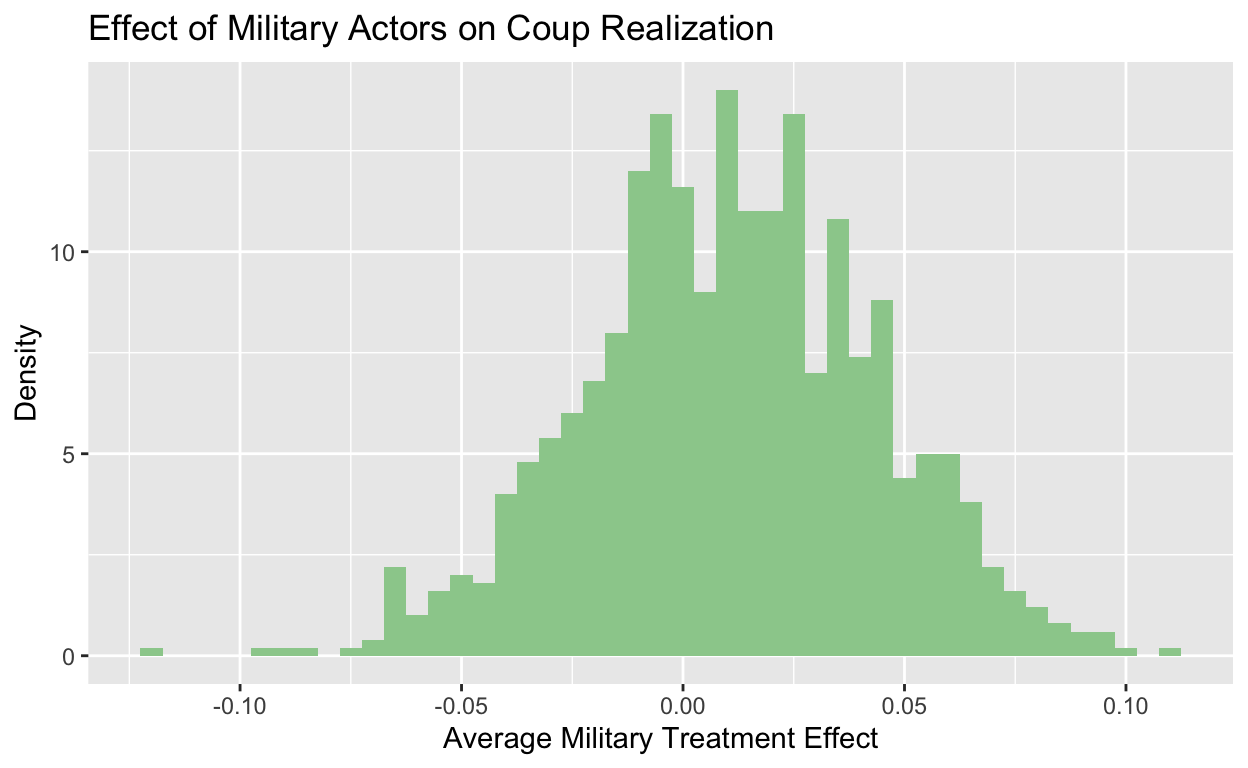
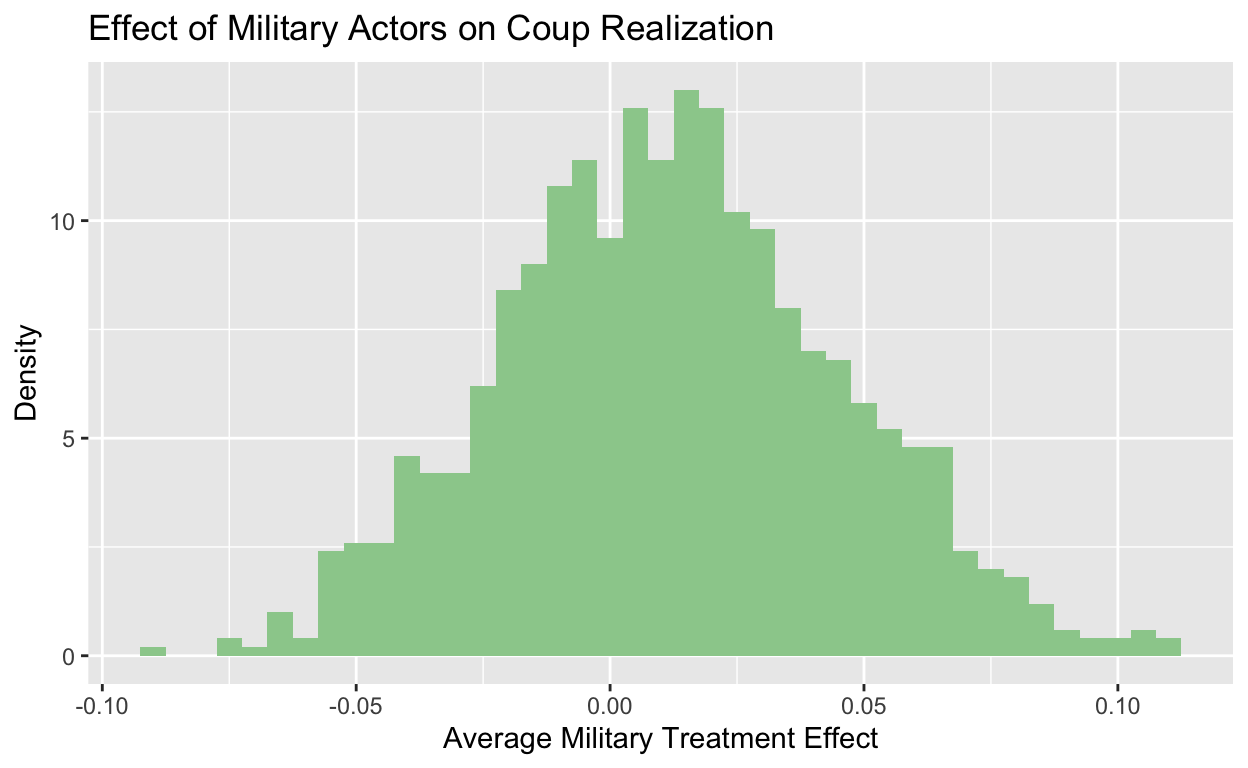
Fourth Try!

diff --git a/index.html b/index.html
@@ -1596,18 +1596,18 @@ code span.wa { color: #5e5e5e; font-style: italic; } /* Warning */
 </div>
 <pre><code># A tibble: 1,000 × 4
 # Groups:   replicate [1,000]
-   replicate   `0`   `1`       ATE
-       &lt;int&gt; &lt;dbl&gt; &lt;dbl&gt;     &lt;dbl&gt;
- 1         1 0.427 0.461  0.0343  
- 2         2 0.455 0.463  0.00747 
- 3         3 0.444 0.485  0.0409  
- 4         4 0.424 0.491  0.0667  
- 5         5 0.481 0.481  0.000861
- 6         6 0.445 0.486  0.0411  
- 7         7 0.434 0.414 -0.0206  
- 8         8 0.417 0.471  0.0532  
- 9         9 0.462 0.456 -0.00547 
-10        10 0.464 0.473  0.00904 
+   replicate   `0`   `1`     ATE
+       &lt;int&gt; &lt;dbl&gt; &lt;dbl&gt;   &lt;dbl&gt;
+ 1         1 0.501 0.489 -0.0126
+ 2         2 0.473 0.453 -0.0206
+ 3         3 0.416 0.445  0.0284
+ 4         4 0.380 0.427  0.0477
+ 5         5 0.435 0.457  0.0219
+ 6         6 0.422 0.440  0.0181
+ 7         7 0.439 0.466  0.0271
+ 8         8 0.456 0.439 -0.0171
+ 9         9 0.433 0.463  0.0305
+10        10 0.475 0.443 -0.0324
 # ℹ 990 more rows</code></pre>
 <div class="sourceCode">
 <pre class="sourceCode r"><code class="sourceCode r"><span><span class='co'>#Creating the confidence intervals</span></span>
@@ -1627,8 +1627,8 @@ code span.wa { color: #5e5e5e; font-style: italic; } /* Warning */
 </thead>
 <tbody>
 <tr class="odd">
-<td style="text-align: right;">-0.0559</td>
-<td style="text-align: right;">0.073</td>
+<td style="text-align: right;">-0.0513</td>
+<td style="text-align: right;">0.079</td>
 </tr>
 </tbody>
 </table>
